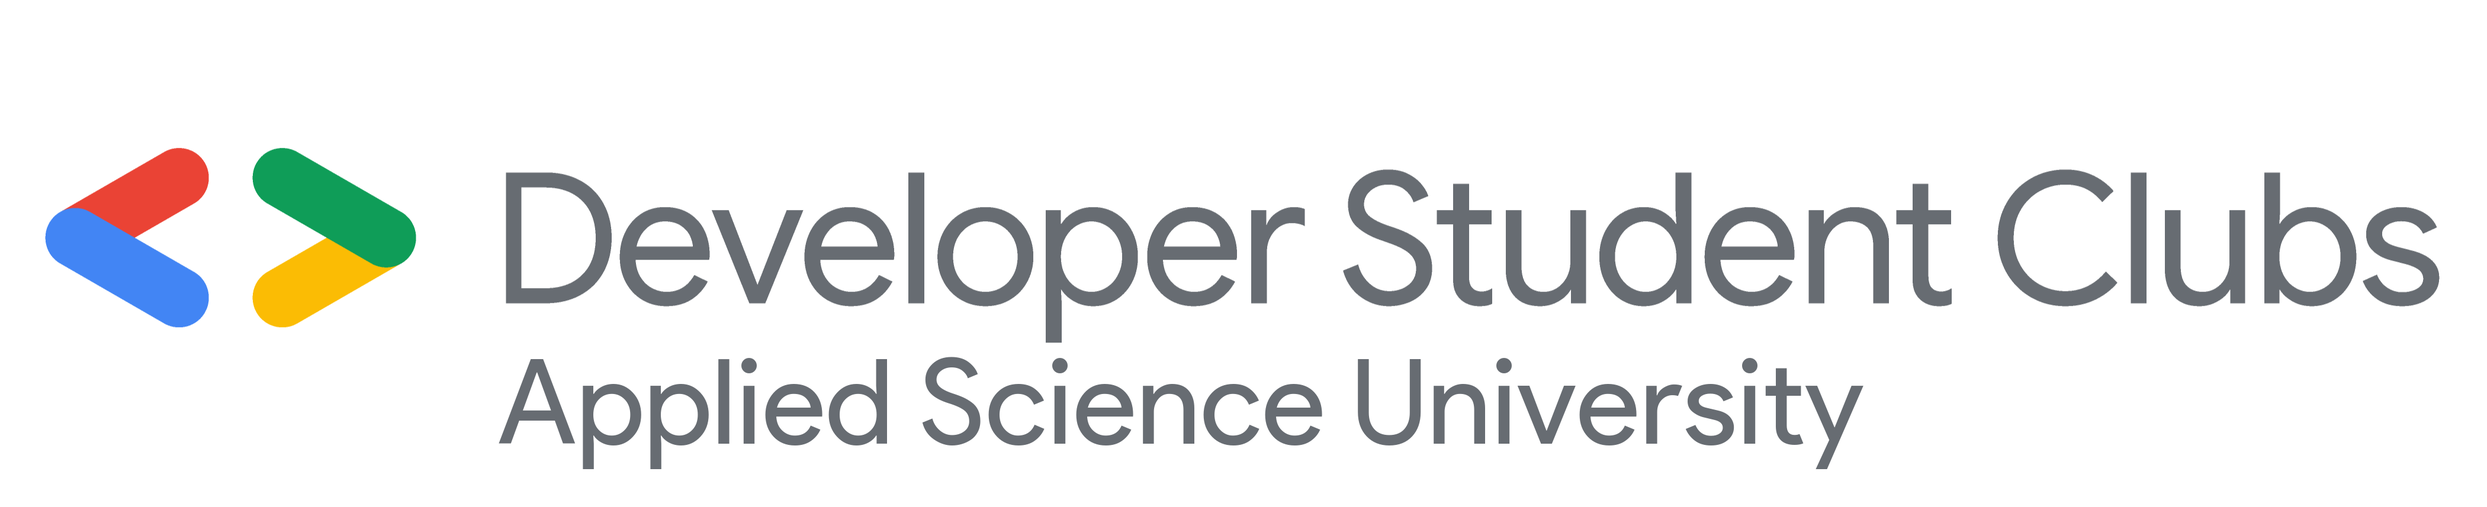
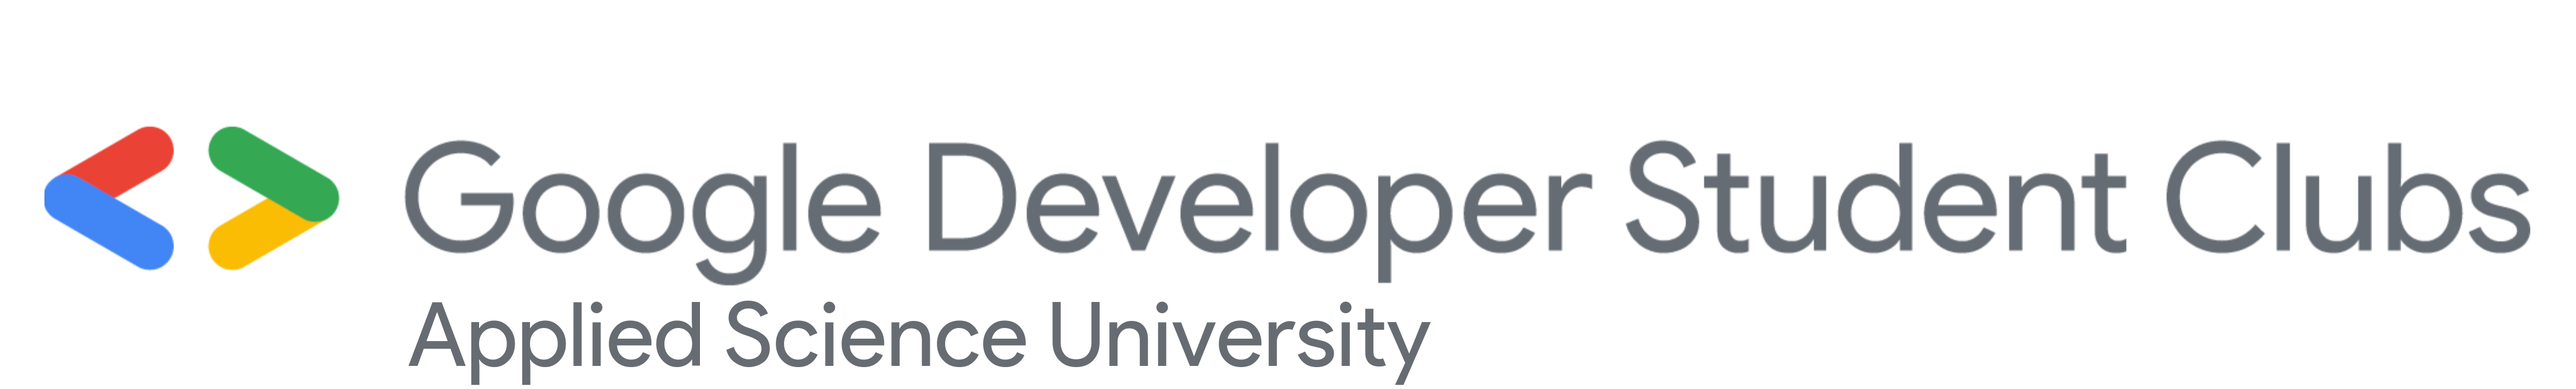
updated examples!

Changed region(s): [[0.0, 0.274, 0.9981, 0.9741]]

diff --git a/README.md b/README.md
@@ -1,29 +1,31 @@
-# DSC Logo Generator 
+# GDSC Logo Generator 
 
-[![GoDoc](https://godoc.org/github.com/baraa-almasri/dsc_logo_generator?status.png)](https://godoc.org/github.com/baraa-almasri/dsc_logo_generator) [![Go Report Card](https://goreportcard.com/badge/github.com/baraa-almasri/dsc_logo_generator)](https://goreportcard.com/report/github.com/baraa-almasri/dsc_logo_generator)
+[![GoDoc](https://godoc.org/github.com/mbaraa/dsc_logo_generator?status.png)](https://godoc.org/github.com/mbaraa/dsc_logo_generator) [![Go Report Card](https://goreportcard.com/badge/github.com/mbaraa/dsc_logo_generator)](https://goreportcard.com/report/github.com/mbaraa/dsc_logo_generator)
 
 ## dependencies:
-- [fixed](https://godoc.org/golang.org/x/image/math/fixed)
-- [go-ttf](https://godoc.org/github.com/golang/freetype/truetype)
-- [ToggleButton](https://github.com/webomnizz/vue-toggle-button) component from [WebOmnizz](https://github.com/webomnizz/)
+- [go-cairo](https://github.com/ungerik/go-cairo) cairo the image manipulation library
+- [go-ttf](https://godoc.org/github.com/golang/freetype/truetype) used to calculate the text's length using a specific ttf font
+- [fixed](https://godoc.org/golang.org/x/image/math/fixed) the fixed numerical type is used for the ttf glyph's length
+- [ToggleButton](https://github.com/webomnizz/vue-toggle-button) component from [WebOmnizz](https://github.com/webomnizz/) used in the dark mode switcher
 
 ## run locally:
 1. install the dependencies one by one 
-   - or just run `go build -ldflags="-w -s"`
-1. build the client
+   - or just run `go mod tidy`
+1. build the client(front-end)
    - `cd ./client`
    - `npm run build`
-1. run the server's executable
+1. build run the server's executable
+   - `go build -ldflags="-w -s"`
    - `./dsc_logo_generator`
 1. open `127.0.0.1:1105` and generate some logos :)
 
 ## examples:
-- ### vertical
-<p align="center">
-<img src="https://github.com/baraa-almasri/dsc_logo_generator/blob/main/res/example.png" >
-</p>
-
 - ### horizontal
 <p align="center">
-<img src="https://github.com/baraa-almasri/dsc_logo_generator/blob/main/res/example_horizontal.png" >
+<img src="https://github.com/mbaraa/dsc_logo_generator/blob/main/res/example_horizontal.png" >
+</p>
+
+- ### vertical
+<p align="center">
+<img src="https://github.com/mbaraa/dsc_logo_generator/blob/main/res/example.png" >
 </p>
